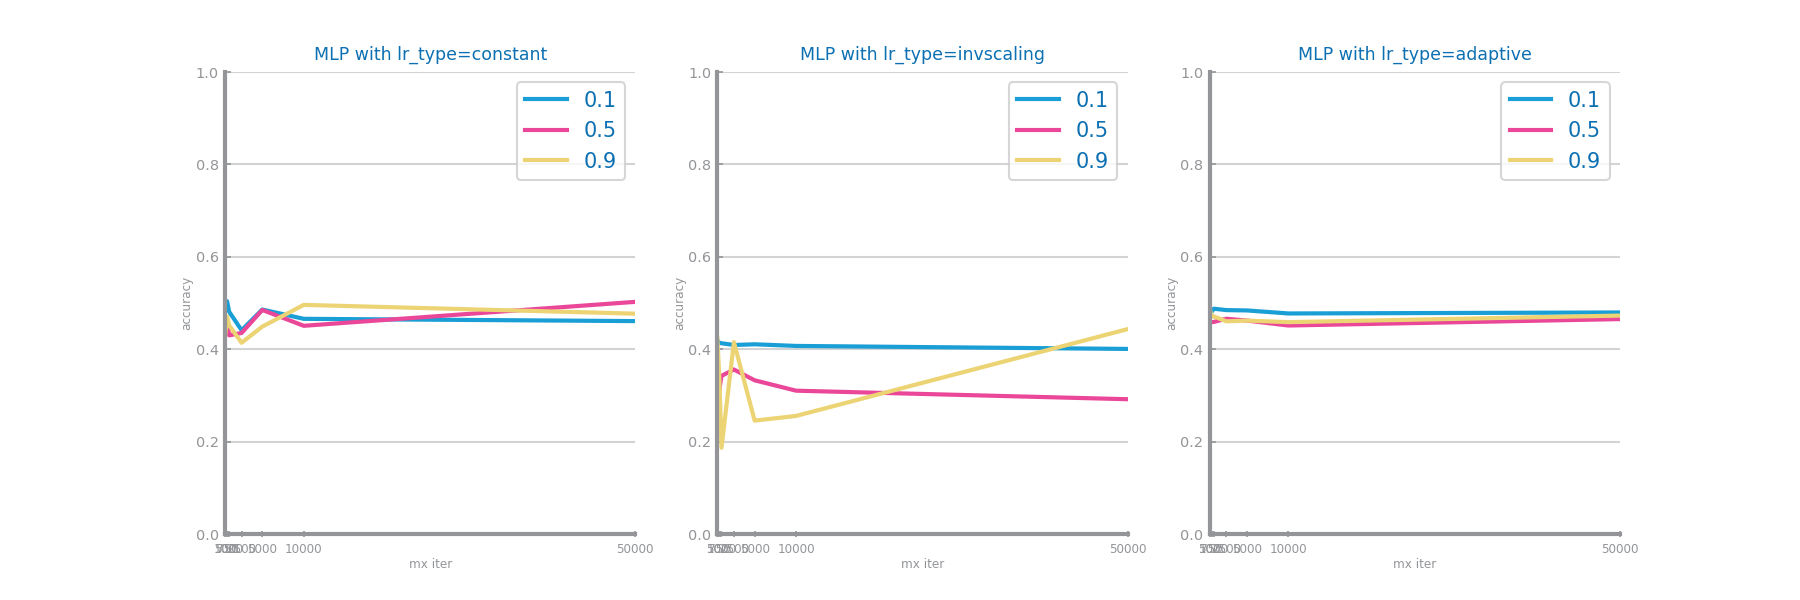
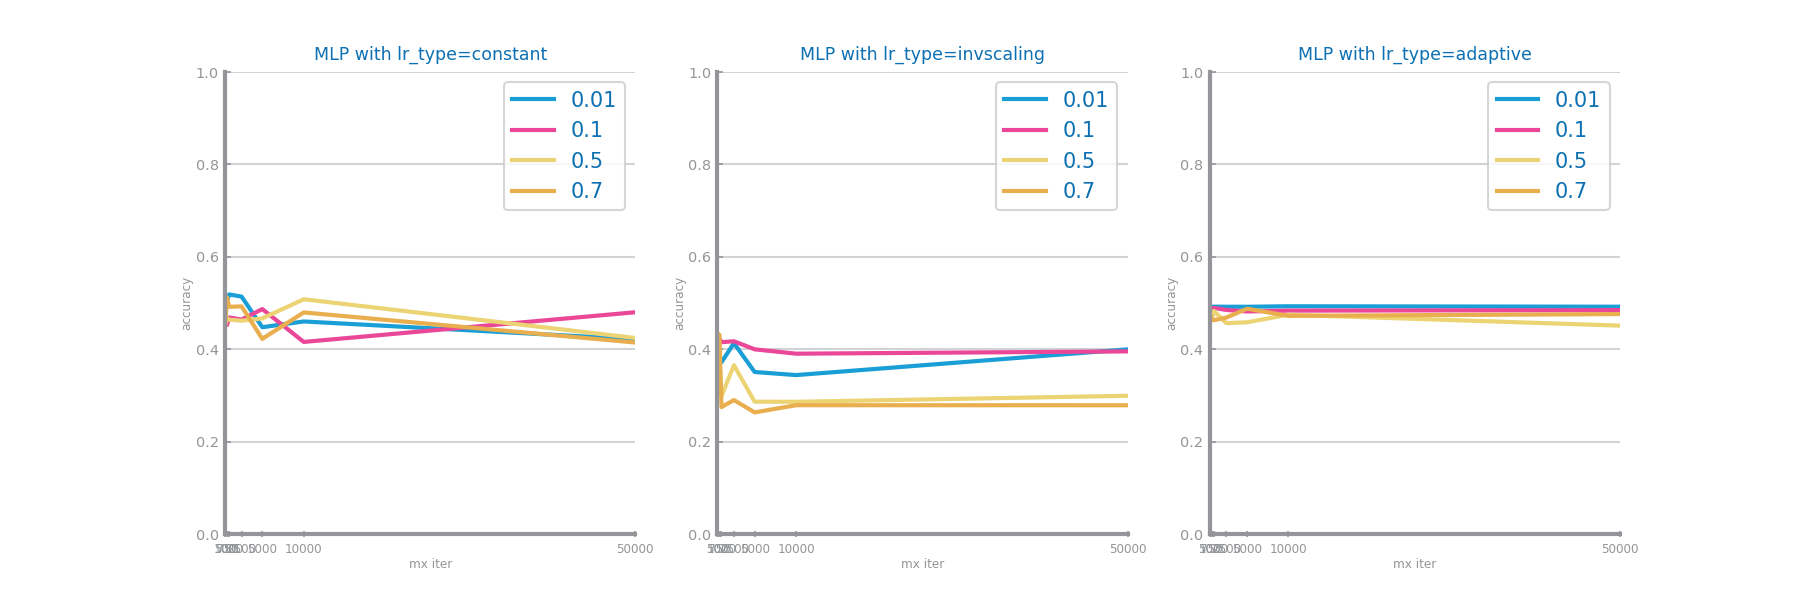
nn

diff --git a/ds_charts.py b/ds_charts.py
@@ -14,8 +14,7 @@ from matplotlib.dates import _reset_epoch_test_example, set_epoch, AutoDateLocat
 import matplotlib.font_manager as fm
 from sklearn.preprocessing import OneHotEncoder
 from sklearn.tree import export_graphviz
-from sklearn.metrics import confusion_matrix, plot_roc_curve
-
+from sklearn.metrics import confusion_matrix, plot_roc_curve, f1_score, accuracy_score, recall_score, precision_score
 import config as cfg
 
 
@@ -130,6 +129,30 @@ def plot_evaluation_results(labels: ndarray, trn_y, prd_trn, tst_y, prd_tst):
 
     _, axs = subplots(1, 2, figsize=(2 * HEIGHT, HEIGHT))
     multiple_bar_chart(['Train', 'Test'], evaluation, ax=axs[0], title="Model's performance over Train and Test sets", percentage=True)
+    plot_confusion_matrix(cnf_mtx_tst, labels, ax=axs[1], title='Test')
+
+
+def plot_evaluation_results2(labels: ndarray, trn_y, prd_trn, tst_y, prd_tst, pos_value: int = 1, average_param: str = 'macro'):
+    def compute_eval(real, prediction):
+        evaluation = {
+        'acc': accuracy_score(real, prediction),
+        'recall': recall_score(real, prediction, pos_label=pos_value, average=average_param),
+        'precision': precision_score(real, prediction, pos_label=pos_value, average=average_param),
+        'f1': f1_score(real, prediction, pos_label=pos_value, average=average_param)
+         }
+        return evaluation
+
+    eval_trn = compute_eval(trn_y, prd_trn)
+    eval_tst = compute_eval(tst_y, prd_tst)
+    evaluation = {}
+
+    for key in eval_trn.keys():
+        evaluation[key] = [eval_trn[key], eval_tst[key]]
+
+    _, axs = subplots(1, 2, figsize=(2 * HEIGHT, HEIGHT))
+    multiple_bar_chart(['Train', 'Test'], evaluation, ax=axs[0], title="Model's performance over Train and Test sets", percentage=True)
+
+    cnf_mtx_tst = confusion_matrix(tst_y, prd_tst, labels=labels)
     plot_confusion_matrix(cnf_mtx_tst, labels, ax=axs[1], title='Test')
 
 

diff --git a/NN.py b/NN.py
@@ -2,7 +2,7 @@ from numpy import ndarray
 from pandas import DataFrame, read_csv, unique
 from matplotlib.pyplot import figure, subplots, savefig, show
 from sklearn.neural_network import MLPClassifier
-from ds_charts import plot_evaluation_results, multiple_line_chart, horizontal_bar_chart, HEIGHT, plot_overfitting_study
+from ds_charts import plot_evaluation_results2, plot_evaluation_results, multiple_line_chart, horizontal_bar_chart, HEIGHT, plot_overfitting_study
 from sklearn.metrics import accuracy_score
 
 dataset = 'diabetic'
@@ -28,7 +28,7 @@ tstX: ndarray = test.values
 
 lr_type = ['constant', 'invscaling', 'adaptive']
 max_iter = [500, 750, 1000, 2500, 5000, 10000, 50000]
-learning_rate = [.1, .5, .9]
+learning_rate = [0.01, .1, .5, .7]
 best = ('', 0, 0)
 last_best = 0
 best_model = None
@@ -61,14 +61,18 @@ print(f'Best results with lr_type={best[0]}, learning rate={best[1]} and {best[2
 
 prd_trn = best_model.predict(trnX)
 prd_tst = best_model.predict(tstX)
-plot_evaluation_results(labels, trnY, prd_trn, tstY, prd_tst)
+
+if dataset == 'diabetic':
+    plot_evaluation_results2(labels, trnY, prd_trn, tstY, prd_tst)
+
+else:
+    plot_evaluation_results(labels, trnY, prd_trn, tstY, prd_tst)
+
 savefig(f'images/MLP/{file_tag}_mlp_best.png')
 show()
 
-
-
-lr_type = 'adaptive'
-lr = 0.9
+lr_type = best[0]
+lr = best[1]
 eval_metric = accuracy_score
 y_tst_values = []
 y_trn_values = []
@@ -80,5 +84,5 @@ for n in max_iter:
     y_tst_values.append(eval_metric(tstY, prd_tst_Y))
     y_trn_values.append(eval_metric(trnY, prd_trn_Y))
 plot_overfitting_study(max_iter, y_trn_values, y_tst_values, name=f'NN_lr_type={lr_type}_lr={lr}', xlabel='nr episodes', ylabel=str(eval_metric))
-savefig(f'images/MLP/{file_tag}_mlp_best.png')
+savefig(f'images/MLP/{file_tag}_overfitting.png')
 show()
